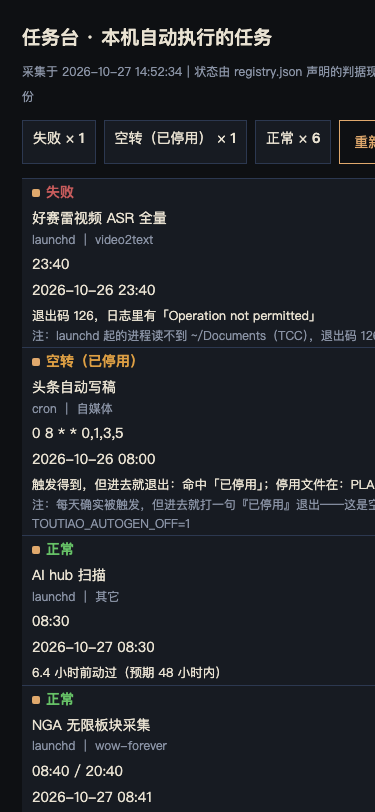
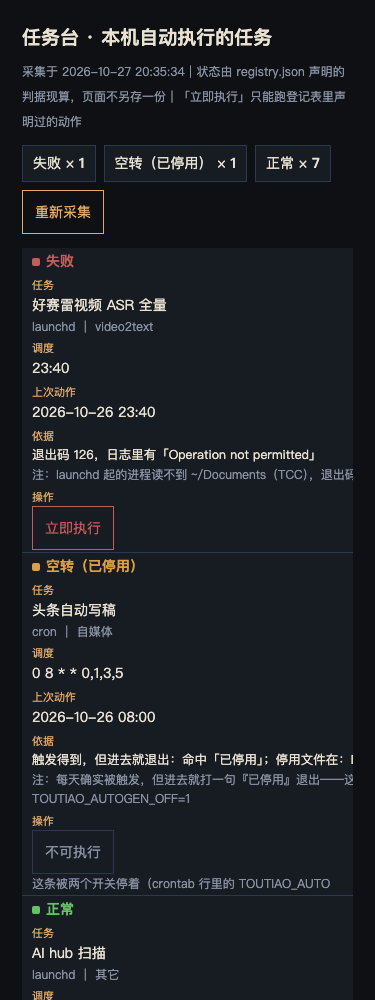
feat(tools): 任务台 P1——立即执行，白名单＋一次性令牌＋异步不阻塞
- 页面只能跑 registry.json 声明过的动作（kickstart 或写死 argv），
  不接受来自浏览器的命令文本；id 不在登记表里直接拒
- 9 条里 5 条给按钮、4 条置灰并写明理由：头条被两个开关停着，任务台不代跑停用的任务；
  video2text 两组触发口在工作台会话里且手动匹配会重写候选；Qoder 本地无接口
- 给按钮的 NGA 与 p2 标红字警告（拿号主 cookie 打板块 / 真发布数据），本轮没代跑这两条
- 修一处真溢出：操作列被挤出视口，改 table-layout:fixed＋colgroup＋overflow-wrap，
  用真浏览器量 1440/375 两档文档宽==视口宽
- 关掉上一轮两个自记缺口：订阅同步按组拆行（不再被取最新一条掩盖单组停摆）、
  任务台把自己也登记成一条任务（它挂了页面就停在最后一次采集）
- registry 的 note 里我用了半角引号（非法 JSON）已改；collect 分组段误用外层变量名 entry 已改回 e

diff --git a/wow-forever-web/tools/taskboard/server.py b/wow-forever-web/tools/taskboard/server.py
@@ -1,52 +1,69 @@
 #!/usr/bin/env python3
 # -*- coding: utf-8 -*-
-"""taskboard 页面：读 ~/.taskboard/status.json 把四家族自动任务摆一张表。
+"""taskboard 页面：读 ~/.taskboard/status.json 摆一张全机自动任务的健康表。
 
-第一期只读：只有「重新采集」这一个动作（它跑的是只读采集器，不碰任何任务）。
-改周期、启停、立即执行是后面几期的事，那时才需要 token 与两道确认（设计见
-wow-forever-web/docs/DEV-taskboard-2026-10-27.md 第六节）。
-
-只绑 127.0.0.1：这页迟早要拿到能改 crontab 的手，不能对局域网开放。
+P1 起多了「立即执行」。三条边界，都是刻意的：
+  · **只能执行 registry.json 里声明过的动作**（kickstart 或写死的 argv），
+    页面不接受任何来自浏览器的命令文本——能跑什么由仓库里那份登记表决定。
+  · 每次启动生成一次性 token，写进页面与请求；只接本机 Origin。
+    这页迟早要拿到改 crontab 的手，不能对局域网敞开。
+  · 改周期、启停、删任务（P2）没做。触发是异步的：kickstart 与长脚本都不阻塞页面，
+    结果写进 ~/.taskboard/audit.log，页面上给"已触发＋去哪看"。
 """
 import json
 import os
+import secrets
 import subprocess
 import sys
 import threading
+import time
+import urllib.parse
 from datetime import datetime
 from http.server import BaseHTTPRequestHandler, ThreadingHTTPServer
 
 HERE = os.path.dirname(os.path.abspath(__file__))
-STATUS = os.path.expanduser("~/.taskboard/status.json")
+HOME_DIR = os.path.expanduser("~/.taskboard")
+STATUS = os.path.join(HOME_DIR, "status.json")
+REGISTRY = os.path.join(HOME_DIR, "registry.json")
+AUDIT = os.path.join(HOME_DIR, "audit.log")
 COLLECT = os.path.join(HERE, "collect.py")
 HOST, PORT = "127.0.0.1", 15830
+TOKEN = secrets.token_urlsafe(9)
 
 CSS = """
 :root{--bg:#0e1013;--panel:#171b22;--line:#2c3850;--txt:#e9e2d2;--dim:#8a93a5;--gold:#e0a96d;
---ok:#67c267;--fail:#c75c5c;--idle:#dd9f44;--late:#dd9f44}
+--ok:#67c267;--fail:#c75c5c;--idle:#dd9f44}
 *{box-sizing:border-box}body{margin:0;padding:22px;background:var(--bg);color:var(--txt);
 font:14px/1.6 -apple-system,"PingFang SC",sans-serif}
 h1{font-size:19px;margin:0 0 4px}sub{color:var(--dim);font-size:12px}
-.chips{display:flex;flex-wrap:wrap;gap:8px;margin:14px 0}
+.chips{display:flex;flex-wrap:wrap;gap:8px;margin:14px 0;align-items:center}
 .chip{background:var(--panel);border:1px solid var(--line);padding:6px 10px;font-variant-numeric:tabular-nums}
-table{border-collapse:collapse;width:100%;background:var(--panel)}
+table{border-collapse:collapse;width:100%;background:var(--panel);table-layout:fixed}
+col.c-st{width:96px}col.c-op{width:112px}col.c-name{width:15%}col.c-sch{width:17%}col.c-last{width:12%}
+.wrap{overflow-x:auto}
 th,td{border-bottom:1px solid var(--line);padding:9px 10px;text-align:left;vertical-align:top}
+td,th{word-break:break-word;overflow-wrap:anywhere}
 th{color:var(--gold);font-weight:600;font-size:12px;letter-spacing:.04em}
 td.num{font-variant-numeric:tabular-nums;white-space:nowrap}
 .st{font-weight:600;white-space:nowrap}.st::before{content:"";display:inline-block;width:8px;height:8px;
 margin-right:6px;border-radius:2px;background:currentColor}
 .s-正常{color:var(--ok)}.s-失败{color:var(--fail)}.s-空转{color:var(--idle)}
-.s-超期{color:var(--late)}.s-应用没开{color:var(--dim)}.s-未知{color:var(--dim)}
+.s-超期{color:var(--idle)}.s-应用没开{color:var(--dim)}.s-未知{color:var(--dim)}
 .dim{color:var(--dim);font-size:12px}.why{font-size:12.5px}
+.grp{font-size:12px;color:var(--dim);font-variant-numeric:tabular-nums}
+.grp b{color:var(--txt);font-weight:600}
 button{background:transparent;border:1px solid var(--gold);color:var(--gold);
-padding:9px 14px;min-height:44px;cursor:pointer;font:inherit}
-button:hover{background:rgba(224,169,109,.12)}
+padding:9px 12px;min-height:44px;cursor:pointer;font:inherit;white-space:nowrap}
+button:hover:not(:disabled){background:rgba(224,169,109,.12)}
+button:disabled{border-color:var(--line);color:var(--dim);cursor:not-allowed}
+.note{margin:10px 0;padding:9px 12px;border-left:3px solid var(--gold);background:var(--panel);font-size:13px}
+.note.bad{border-left-color:var(--fail)}
 footer{margin-top:16px;color:var(--dim);font-size:12px}
-@media(max-width:760px){table,th,td{display:block;width:auto}tr{border-bottom:1px solid var(--line);padding:6px 0}
-th{display:none}td{border:0;padding:2px 10px}td::before{content:attr(data-l);color:var(--gold);
+@media(max-width:820px){table,th,td{display:block;width:auto}tr{border-bottom:1px solid var(--line);padding:6px 0}
+th{display:none}td{border:0;padding:2px 10px}td[data-l]::before{content:attr(data-l);color:var(--gold);
 font-size:11px;display:block}}
 """
-CLS = {"空转（已停用）": "空转", "应用没开": "应用没开"}
+CLS = {"空转（已停用）": "空转"}
 
 
 def load():
@@ -57,7 +74,52 @@ def load():
         return {"rows": [], "summary": {}, "error": "读不到 %s：%s" % (STATUS, e)}
 
 
-def render():
+def registry():
+    try:
+        with open(REGISTRY, encoding="utf-8") as f:
+            return {t["id"]: t for t in json.load(f).get("tasks", [])}
+    except Exception:
+        return {}
+
+
+def audit(rec):
+    rec["ts"] = datetime.now().strftime("%Y-%m-%d %H:%M:%S")
+    with open(AUDIT, "a", encoding="utf-8") as f:
+        f.write(json.dumps(rec, ensure_ascii=False) + "\n")
+    return rec
+
+
+def expand(a):
+    return os.path.expanduser(os.path.expandvars(a))
+
+
+def trigger(row):
+    """只执行登记表里声明过的动作。返回 (是否成功, 说明)。"""
+    reg = registry().get(row["id"])
+    if not reg:
+        return False, "登记表里没有这条 id，拒绝执行"
+    spec = reg.get("run") or {}
+    kind = spec.get("kind")
+    if kind == "none" or not kind:
+        return False, spec.get("why", "这条没声明可执行动作")
+    if kind == "kickstart":
+        label = reg.get("label")
+        r = subprocess.run(["launchctl", "kickstart", "-k", "gui/%d/%s" % (os.getuid(), label)],
+                           capture_output=True, text=True, timeout=30)
+        ok = r.returncode == 0
+        return ok, ("已 kickstart %s" % label if ok else "kickstart 失败：%s" % (r.stderr or r.stdout)[:160])
+    if kind == "cmd":
+        argv = [expand(a) for a in spec.get("argv", [])]
+        if not argv:
+            return False, "run.argv 是空的"
+        log = os.path.join(HOME_DIR, "run-%s-%s.log" % (row["id"], time.strftime("%Y%m%d-%H%M%S")))
+        h = open(log, "w")
+        p = subprocess.Popen(argv, stdout=h, stderr=subprocess.STDOUT, cwd=os.path.dirname(argv[0]))
+        return True, "已在后台起（PID %s），输出看 %s；跑完点「重新采集」看状态" % (p.pid, os.path.basename(log))
+    return False, "未知的 run.kind：%s" % kind
+
+
+def render(banner=None):
     d = load()
     rows = d.get("rows") or []
     chips = "".join('<span class="chip">%s × <b>%d</b></span>' % (k, v)
@@ -65,26 +127,44 @@ def render():
     tr = ""
     for r in rows:
         st = r["status"]
-        tr += ('<tr><td class="st s-%s"><span class="sr">%s</span></td>'
-               '<td>%s<div class="dim">%s ｜ %s</div></td>'
-               '<td class="num">%s</td><td class="num">%s</td>'
-               '<td class="why">%s%s</td></tr>\n') % (
+        run = r.get("run") or {"kind": "none"}
+        if run.get("kind") in (None, "none"):
+            act = '<button disabled title="%s">不可执行</button><div class="dim">%s</div>' % (
+                run.get("why", ""), (run.get("why", "") or "")[:34])
+        else:
+            warn = run.get("warn", "")
+            act = ('<form method=post action=/api/run onsubmit="return confirm(\'真的现在跑「%s」？\\n%s\')">'
+                   '<input type=hidden name=id value="%s"><input type=hidden name=t value="%s">'
+                   '<button%s>立即执行</button></form>') % (
+                r["name"].replace("'", ""), warn.replace("'", ""), r["id"], TOKEN,
+                ' style="border-color:var(--fail);color:var(--fail)"' if warn else "")
+        grp = "".join('<div class="grp">%s <b>%s</b> ｜ %s ｜ %s</div>' % (
+            g["name"], g["sched"], g["last"], g["status"]) for g in (r.get("groups") or []))
+        tr += ('<tr><td class="st s-%s">%s</td>'
+               '<td data-l="任务">%s<div class="dim">%s ｜ %s</div></td>'
+               '<td class="num" data-l="调度">%s</td>'
+               '<td class="num" data-l="上次动作">%s%s</td>'
+               '<td class="why" data-l="依据">%s%s</td><td data-l="操作">%s</td></tr>\n') % (
             CLS.get(st, st), st, r["name"], r["kind"], r.get("owner", ""),
-            r.get("schedule", "") or "—",
-            r.get("last_run", "") or "—",
+            r.get("schedule", "") or "—", r.get("last_run", "") or "—", grp,
             r.get("why", "") or "—",
-            ('<div class="dim">注：%s</div>' % r["note"]) if r.get("note") else "")
-    err = '<p class="s-失败">%s</p>' % d["error"] if d.get("error") else ""
-    return ("<!doctype html><meta charset=utf-8><title>任务台</title>"
-            "<style>%s</style><h1>任务台 · 本机自动执行的任务</h1>"
-            "<sub>采集于 %s｜状态由 registry.json 声明的判据现算，页面不另存一份</sub>%s"
+            ('<div class="dim">注：%s</div>' % r["note"]) if r.get("note") else "", act)
+    bn = ""
+    if banner:
+        bn = '<div class="note%s">%s</div>' % (" bad" if not banner[0] else "", banner[1])
+    err = '<div class="note bad">%s</div>' % d["error"] if d.get("error") else ""
+    return ("<!doctype html><meta charset=utf-8><title>任务台</title><style>%s</style>"
+            "<h1>任务台 · 本机自动执行的任务</h1>"
+            "<sub>采集于 %s｜状态由 registry.json 声明的判据现算，页面不另存一份｜"
+            "「立即执行」只能跑登记表里声明过的动作</sub>%s%s"
             '<div class="chips">%s<form method=post action=/refresh><button>重新采集</button></form></div>'
-            "<table><thead><tr><th>状态</th><th>任务</th><th>调度</th><th>上次动作</th><th>依据</th></tr></thead>"
-            "<tbody>%s</tbody></table>"
+            "<div class=wrap><table><colgroup><col class=c-st><col class=c-name><col class=c-sch><col class=c-last><col><col class=c-op></colgroup><thead><tr><th>状态</th><th>任务</th><th>调度</th><th>上次动作</th>"
+            "<th>依据</th><th>操作</th></tr></thead><tbody>%s</tbody></table></div>"
             "<footer>状态词分开用：<b>失败</b>＝跑过但非 0 退出；<b>空转</b>＝触发了但进去就退（配置里被停用）；"
-            "<b>应用没开</b>＝这类的定时器活在应用进程里，没开就不会跑；<b>超期未跑</b>＝距上次超过预期窗口；"
-            "<b>未知</b>＝没有可用证据。不靠颜色区分。</footer>") % (
-        CSS, d.get("generatedAt", "?"), err, chips or "", tr or "<tr><td colspan=5>没有行</td></tr>")
+            "<b>应用没开</b>＝这类定时器活在应用进程里，没开就不跑；<b>超期未跑</b>＝距上次超过预期窗口；"
+            "<b>未知</b>＝没有可用证据。除颜色外都带文字。执行记录在 <b>~/.taskboard/audit.log</b>。"
+            "改周期与启停（P2）没做。</footer>") % (
+        CSS, d.get("generatedAt", "?"), err, bn, chips or "", tr or "<tr><td colspan=6>没有行</td></tr>")
 
 
 class H(BaseHTTPRequestHandler):
@@ -97,6 +177,10 @@ class H(BaseHTTPRequestHandler):
         self.end_headers()
         self.wfile.write(data)
 
+    def _local(self):
+        org = self.headers.get("Origin") or self.headers.get("Referer") or ""
+        return (not org) or ("127.0.0.1:%d" % PORT in org) or ("localhost:%d" % PORT in org)
+
     def do_GET(self):
         if self.path.startswith("/api/status"):
             return self._send(200, json.dumps(load(), ensure_ascii=False, indent=1), "application/json; charset=utf-8")
@@ -104,31 +188,59 @@ class H(BaseHTTPRequestHandler):
             return self._send(200, render())
         return self._send(404, "404")
 
+    def _form(self):
+        n = int(self.headers.get("Content-Length") or 0)
+        raw = self.rfile.read(n).decode("utf-8") if n else ""
+        return {k: v[0] for k, v in urllib.parse.parse_qs(raw).items()}
+
     def do_POST(self):
-        if self.path != "/refresh":
-            return self._send(404, "404")
-        org = self.headers.get("Origin") or self.headers.get("Referer") or ""
-        if org and ("127.0.0.1:%d" % PORT) not in org and ("localhost:%d" % PORT) not in org:
+        if not self._local():
             return self._send(403, "只接受本机页面")
-        try:
-            r = subprocess.run([sys.executable, COLLECT], capture_output=True, text=True, timeout=120)
-            note = "采集完成" if r.returncode == 0 else "采集失败：%s" % (r.stderr or "")[:200]
-        except Exception as e:
-            note = "采集器没跑起来：%s" % str(e)[:160]
-        body = render().replace("<h1>", '<p class="dim">%s</p><h1>' % note, 1)
-        return self._send(200, body)
+        if self.path == "/refresh":
+            try:
+                r = subprocess.run([sys.executable, COLLECT], capture_output=True, text=True, timeout=120)
+                bn = (True, "采集完成") if r.returncode == 0 else (False, "采集失败：%s" % (r.stderr or "")[:200])
+            except Exception as e:
+                bn = (False, "采集器没跑起来：%s" % str(e)[:160])
+            return self._send(200, render(bn))
+        if self.path == "/api/run":
+            f = self._form()
+            if f.get("t") != TOKEN:
+                return self._send(403, render((False, "令牌不对或页面是旧的（服务重启过就刷新一次），没执行任何东西")))
+            rows = {r["id"]: r for r in load().get("rows", [])}
+            row = rows.get(f.get("id"))
+            if not row:
+                return self._send(400, render((False, "登记表里没有这个 id，没执行")))
+            ok, msg = trigger(row)
+            audit({"action": "run", "id": row["id"], "name": row["name"], "ok": ok, "detail": msg})
+            try:
+                subprocess.run([sys.executable, COLLECT], capture_output=True, timeout=120)
+            except Exception:
+                pass
+            return self._send(200, render((ok, ("已执行：%s ｜ %s" % (row["name"], msg)) if ok else ("没执行：%s ｜ %s" % (row["name"], msg)))))
+        return self._send(404, "404")
 
     def log_message(self, fmt, *a):
         sys.stderr.write("%s %s\n" % (datetime.now().strftime("%H:%M:%S"), fmt % a))
 
 
+def refresh_loop():
+    while True:
+        time.sleep(600)
+        try:
+            subprocess.run([sys.executable, COLLECT], capture_output=True, timeout=120)
+        except Exception:
+            pass
+
+
 def main():
     if not os.path.exists(STATUS):
         subprocess.run([sys.executable, COLLECT], capture_output=True)
-    srv = ThreadingHTTPServer((HOST, PORT), H)
-    print("任务台 http://%s:%d  状态文件 %s" % (HOST, PORT, STATUS), flush=True)
-    threading.Timer(600, lambda: subprocess.run([sys.executable, COLLECT], capture_output=True)).start()
-    srv.serve_forever()
+    threading.Thread(target=refresh_loop, daemon=True).start()
+    print("任务台 http://%s:%d" % (HOST, PORT), flush=True)
+    print("一次性令牌（本次启动有效，写进页面）：%s" % TOKEN, flush=True)
+    print("执行记录：%s" % AUDIT, flush=True)
+    ThreadingHTTPServer((HOST, PORT), H).serve_forever()
 
 
 if __name__ == "__main__":

diff --git a/wow-forever-web/tools/taskboard/collect.py b/wow-forever-web/tools/taskboard/collect.py
@@ -153,7 +153,9 @@ def evidence_row(entry, rows):
     """按声明收证据：上次活动时间、来源、退出码、日志里的关键词命中。"""
     row = {"id": entry["id"], "name": entry["name"], "kind": entry["kind"],
            "owner": entry.get("owner", ""), "status": UNKNOWN, "why": "",
-           "last_run": "", "last_src": "", "exit": "", "note": entry.get("hint", "")}
+           "last_run": "", "last_src": "", "exit": "", "note": entry.get("hint", ""),
+           "run": entry.get("run") or {"kind": "none", "why": "登记表里没声明可执行动作，页面不给按钮"},
+           "groups": []}
     ev = entry.get("evidence") or {}
     txt, mtime = tail_text(ev.get("log", ""))
     if mtime:
@@ -260,6 +262,11 @@ def collect():
                 src = os.path.basename(p(e["state"])) + "（每组的上次执行）"
                 row["exit"] = ",".join(sorted({str(t.get("last_status")) for t in st["tasks"]}))
                 row["schedule"] = "；".join(lst)
+                if e.get("groups"):
+                    for t in st["tasks"]:
+                        row["groups"].append({"name": t.get("name"), "sched": "每%s天@%s" % (
+                            t.get("interval_days"), t.get("run_at")), "last": (t.get("last_run") or "—")[:16],
+                            "status": t.get("last_status") or "?"})
             elif isinstance(st, dict):
                 row["schedule"] = "%s（开关 %s）" % (st.get("run_at", "?"), "开" if st.get("enabled") else "关")
                 src = os.path.basename(p(e["state"]))
@@ -295,7 +302,8 @@ def collect():
                         names.append("%s｜%s｜上次 %s｜%s" % (
                             t.get("name"), sc.get("expression") or sc.get("kind"),
                             dt.strftime("%m-%d %H:%M") if dt else "?", t.get("lastRunStatus") or "?"))
-                    row["schedule"] = "；".join(names) or "快照里没有任务"
+                    joined = "；".join(names)
+                    row["schedule"] = (joined[:110] + "…（共 %d 条）" % len(ts)) if len(joined) > 120 else (joined or "快照里没有任务")
                     row["last_src"] = "agent 同步于 " + str(d.get("syncedAt", "?"))
                     if stamps:
                         row["last_run"] = iso(max(stamps))

diff --git a/ROLES.md b/ROLES.md
@@ -214,3 +214,4 @@
 | 2026-10-27 | wow-dev | **站主选了 A（抓完就导），我实测之后把 A 撤回，并定下它该挂哪儿**（本轮零页面改动，不跑界面门禁）。① **撤回理由是量出来的不是推测**：launchd 起的进程读不到 `~/Documents`——同机现成的第二条证据是 `com.zhangyajun.haosailei.asr` 每晚 23:40 退出码 **126**、err 日志整页 `Operation not permitted`；而导入器与它要写的库都在 `Documents/project/video2text/`，从采集侧调它只会多一条每晚静默失败的任务。② 顺手拆掉一个会把采集搞挂的旧口径：`~/.nga` 运行副本与仓库那份已漂移（副本注释还写 `src/data`，仓库 10-24 后是 `app/data`；脚本差 110 行），**照文档那句「改了重新 cp」覆盖会把带 `cd $REPO` 的那份装进 launchd**，明天 08:40 就是 ASR 那个下场。改成 `--sync`（装副本前自动备份 `*.bak-时间戳`、把副本里的 `REPO` 改指 `~/.nga`）/ `--check`（漂移行数＋launchd 退出码＋最新快照）/ `--only-import`（零网络验接线）。实测：重装后 `一致／一致／rc=0`；`NGA_IMPORT=1 --only-import` 返回 `new:0`（幂等）；副本自己会拒绝 `--sync/--check`（它没有 Documents 权限，不拒绝就会拿不存在的目录报一堆 grep 错——这个我第一版就踩了，第二版补上）。`NGA_IMPORT` 默认 0，原因写在文件头，**不是没想到，是量过之后确认做不到**。③ 站主新需求「每天自动执行的任务要有网页管，而且不止这个项目有」→ 先盘全机器再谈建，四家族共 8 条（cron 2／launchd 3／应用进程内 2 组／Qoder 定时 1）。**盘出两个真故障**：ASR 每晚 126 之外，头条那条 cron 每天 08:00 确实在触发，但命令行带 `TOUTIAO_AUTOGEN_OFF=1`、目录里还有 `PLAN_AUTOGEN_DISABLED`，日志 10-23/25/26 全是「已停用」一句——**「在跑」其实是空转**，这种条目只按退出码显示会被当成健康。④ 规格里最关键的一条结构判断：**管理页不能寄生在被管的应用里**——第三家族「应用不开就不跑」，页面关着的整天正是它最该报警的时候，却看不见自己没跑。所以形状＝家目录 `~/.taskboard/collect.py`（launchd 每 30 分钟、只读、写 `status.json`）＋独立页面（127.0.0.1:15830）。判据不进代码，由 `registry.json` 声明，**「已停用／失败／应用没开／超过 N 小时没跑」四种分开写**，不许合并成「未执行」（站主 10-22 抓过状态说谎那次）。⑤ 写动作照本站 OSS 写闸的先例分级：token＋前端 confirm＋后端 `--yes` 双闸、改前原件进 `backup/`、**`crontab` 是整表覆盖所以写完必须回读校验、不一致就自动恢复备份**（不许「写了就当成功」）、删任务第一期不做。⑥ 一条硬边界要他点头：Qoder 定时任务本地没有稳定接口，第一版**只能显示不能改**。 | `wow-forever-web/tools/nga-daily.sh`、`wow-forever-web/docs/DATA-NGA-2026-10-18.md`（新增第二十三节）、`wow-forever-web/docs/DEV-taskboard-2026-10-27.md`（新）；`video2text/docs/NGA导入接进工作台-任务书-2026-10-27.md`（拍板段落）｜提交 `53586a13`、`3dd8ad71`、video2text `e6c16e2` | **已定**（导入通道＝工作台 `sync_tasks` 加一类导入任务，周期排在 08:40 采集之后、滞后必须在界面上显示成「工作台没开今天没导」而不许写「数据已是最新」；采集脚本已能装能核对）／**待用户确认（三件）**：① 任务台独立起服务、不塞进 15801；② 接受 Qoder 那格第一版只读；③ P2 改周期是否与 P0 同轮（我建议不同轮：判据没验准前给改 crontab 的按钮等于把误判变事故）／**没做的**：任务台一行代码没写；没动 `web/app.py` 与 `index.html`（另一会话在写，`DB_ONLY_SHEETS` 正在他那 75 处里）；没跑采集实网络验证（要用号主 cookie 打板块，属花他账号信用的动作）／**别线两笔账**：ASR 那条要修（执行体放家目录或给那二进制授 FDA）、头条 cron 那两个重复停用开关会让下一个会话误判恢复方式 | 站主点头三件事 → 下一轮 wow-dev 做 P0＋P1（`~/.taskboard/collect.py` 与只读页），P2 单独一轮 |
 | 2026-10-27 | wow-dev | **任务台 P0 建完并在跑（站主拍板：独立起服务）**。① 形状按规格落地：仓库是源、launchd 跑家目录副本（`tools/taskboard/{collect.py,server.py,registry.json,install.sh}` → `~/.taskboard/`），照 `~/.nga` 那套 `--sync/--check` 做法，理由同一条——launchd 起的进程读不到 `~/Documents`。② **判据不进代码**：每条任务的成功/失败/停用关键词、日志路径、预期窗口全在 `registry.json`，代码只按声明探；时间列也不写死，`plan_match_runs` 那种表按语义现挑（第一版把 `run_key` 当时间列用了，报出 `night:2026-10-26` 这种值，已改成优先 `finished/last/started_*_at` 并排除 `*key*`）。③ **六档状态分开**：`失败／空转（已停用）／应用没开／超期未跑／未知／正常`，除颜色外都带文字。头条那条就是这条设计的理由：它每天 08:00 真被触发，但命中「已停用」＋`PLAN_AUTOGEN_DISABLED` 存在，**判成"空转"才对**——只看退出码它会一直报健康。④ 实测一轮 8 条：失败×1（ASR 126＋TCC）、空转×1、正常×6；Qoder 那格本地确实没有稳定存储（`qoder-data.v1.json` 里 automation 字段 0 命中），只能由 agent 写 `~/.taskboard/qoder_cron.json` 快照，页面注明"agent 同步于 …"，**不伪装成实时**。⑤ 页面 127.0.0.1:15830 只读＋一个「重新采集」按钮（只跑采集器，不碰任何任务），POST 只接本机 Origin；定时采集 launchd `com.zhangyajun.taskboard-collect` 每 30 分钟，撤销一条 `--unagent`。⑥ 渲染证据两档截图（1440／375）。⑦ **P1 立即执行与 P2 改周期启停都没做**，按规格要先有 token＋两道确认＋备份回滚；且"应用没开/超期未跑"这两档本轮没被真实触发过，判据未经实战。⑧ **没量过就不登记**：5177 那条产线的状态文件与判据我还没查，所以它不在表里，不给假绿灯。⑨ 一处已知不精确：video2text 订阅同步的"上次动作"取四组里最新的一条，**单组停摆会被别的组掩盖**，要按组分行留给 P1。 | `wow-forever-web/tools/taskboard/{collect.py,server.py,registry.json,install.sh}`（新）、`wow-forever-web/docs/DEV-taskboard-2026-10-27.md`（第八节改成落地结论＋已知缺口）、`wow-forever-web/docs/screenshots/taskboard-2026-10-27/{desktop-1440,mobile-375}.png`；运行态在 `~/.taskboard/`（不入库） | **已定**（P0 可用、判据外置、状态分档）／**待用户看**：页面观感与措辞（我读的是压缩截图）／**待用户定**：P1 立即执行、P2 改周期/启停要不要开、订阅同步要不要按组分行／**没验到的**：`应用没开` 与 `超期未跑` 两档没有真实样本（要把 15801 关掉跑一轮才算验过）、launchd 定时采集要等 30 分钟后看 `collect.out.log` 才知成不成／**机器状态改动（可撤）**：新装 launchd `com.zhangyajun.taskboard-collect`、起了 15830 进程、写了 `~/.taskboard/` 五个文件 | 站主看完 P0 → 若要 P1/P2 按第六节分级做（token＋两道确认＋改前备份＋crontab 写完回读校验）；ASR 那条与头条双开关属别线，已记在规格第九节 |
 | 2026-10-27 | wow-data | 站主报「插件更新了，看有没有我们需要的数据；新加的 openmap 能不能完善地图」。只读挂载 105 那台逐文件核：GI 0.5.1→**0.5.6**（0.5.4 那格是天赋/专业/营地/成就**数据重做**，四块要返工；新增 `PetData` 40 家族/11 新增、自报客户端 70532）、XR 65→**87**、DF 1.8.20→**1.9.10**、**OpenMap 0.7.5-CN 是新源**（代码与数据表 MIT，图是暴雪裁剪件不受 MIT、画师自绘那两目录授权只给它 → 只取文件号清单不取图）。它的 `DungeonMaps.lua` 给 25 座本/63 层官方副本图共 **756 个文件号，逐号回读 listfile 756/756 且 verified**——补的正是 10-22 我们判死的那格（无限服没有 MapArea/MapDiff/TextureData，它取自正式服 5.5.4.70268 UiMap）。顺手量出我们自己的毛病：`bossPos` 带层号、DF 渲染按层过滤（`MapUI.lua:574`），我们却把跨层点画到 XR 那张 512² 等轴合成图上，参照物不是同一个坐标系。区域那 8 张缺口**判先不用**（我们的 37 张带中文地名，它那张大概率是英文地名，本机无 BLP 解码器打不开验不了） | `wow-forever-web/docs/DATA-插件盘点-2026-10-27.md`（新增）、`wow-forever-web/docs/wow-infinite-sources.md` §二十三（四个版本号 + OpenMap 登记） | 待用户确认（三件：① 要不要让 Windows 按 756 个文件号导逐层官方副本图；② GI 0.5.4 那四块要不要返工 + 猎人宠物开不开页；③ 地名已涂掉的干净总览图用不用） | wow-dev（首领点位参照物那一格要修）、wow-pm（宠物页范围）、wow-ops（GI 自己已有小程序/网站在做 BiS 与天赋，我们小程序差异化要重看） |
+| 2026-10-27 | wow-dev | **先 push，再做 P1（任务台「立即执行」）**。① 推送：wow-forever 走 SSH 只快进 `d0aff014..dd727663`（6 个提交，含别的会话两条），video2text `f423bdf..e6c16e2`（2 条都是我的）；推前 `ls-remote` 实测通道活的（6.8 秒），tracking ref 手动对齐。② P1 三条边界按规格实现，不是"能点就行"：**白名单执行**（页面只能跑 `registry.json` 声明过的 `kickstart`/写死 `argv`，不接受任何来自浏览器的命令文本，id 不在表里直接拒）、**一次性 token＋本机 Origin＋前端 confirm**（token 启动时打印在终端并注入页面）、**异步不阻塞**（kickstart 与长脚本不等结果，输出重定向 `run-<id>-<时间>.log`，记录进 `audit.log` JSON 一行一条，随后立刻重跑只读采集）。③ **置灰比给按钮更重要**：9 条里 5 条给按钮、4 条不给并写明为什么——头条那条被 `TOUTIAO_AUTOGEN_OFF=1` 与 `PLAN_AUTOGEN_DISABLED` 两个开关停着，**任务台不代跑停用的任务，要恢复得自己删开关，不能从这儿绕过去**；video2text 两组触发口在工作台会话里且手动匹配会重写候选表（改数据）；Qoder 那格本地没接口。给按钮的 5 条里 NGA 与 p2 标红字警告（前者拿号主 cookie 打板块一次、后者真发布数据），**我没有代跑这两条**。④ 实测：真令牌 kickstart 只读的「任务台自采」→ `audit.log` 落 `ok:true`、`status.json` 的 `generatedAt` 同步刷新；假令牌 → HTTP 403 且无执行记录。⑤ 版式修了一处真问题：第一版**操作列被挤出视口**（表格没固定列宽），改 `table-layout:fixed`＋colgroup＋`overflow-wrap`，并用真浏览器量 **1440／375 两档文档宽==视口宽、不横溢**（不靠肉眼看图判溢出）；Qoder 那格调度串加 120 字截断。⑥ 顺手把上一轮自己记的缺口关掉两个：订阅同步**按组拆行显示**（四组各自上次执行与结果，不再被"取最新一条"掩盖单组停摆）、**任务台把自己也登记成一条任务**（`taskboard-collect`，每 30 分钟、预期 1 小时——它挂了页面就停在最后一次采集，这条必须自己上表）。⑦ 中途两次工具性错误都当场改回：registry.json 的 note 里我用了半角引号（非法 JSON，改成无引号表述）；collect.py 分组那段我按外层变量名 `entry` 写、循环内实际是 `e`（NameError，改回并跑通）；另一次补丁锚点对不上导致 assert 提前退出，先核文件实际内容再打。 | `wow-forever-web/tools/taskboard/{server.py,collect.py,registry.json}`、`wow-forever-web/docs/DEV-taskboard-2026-10-27.md`（第八节改成 P1 完成态＋新缺口）、`wow-forever-web/docs/screenshots/taskboard-2026-10-27/{desktop-1440,mobile-375}.png`；运行态 `~/.taskboard/`（不入库） | **已定**（P1 可用、白名单＋token＋异步三条边界成立、按钮分布 5/4 有据）／**待用户看**：页面观感与四条置灰理由的措辞（我读的是压缩截图，量的是溢出与按钮可达性）／**待用户定**：要不要开 P2（改周期／启停，需回读校验＋自动恢复）；NGA 与 p2 那两条要不要我实跑一次验证按钮真能触发（会花号主 cookie 信用／会真发布数据，我没擅自跑）／**没验到的**：`应用没开` 与 `超期未跑` 两档**仍无真实样本**——本轮 9 条全落在失败／空转／正常，没被真实触发过的判据不算验过；令牌重启后会变，旧页面点会被拒 | 站主看完 P1 → 若要 P2 按第六节做（改前备份、crontab 写完回读校验、不一致自动恢复）；ASR 与头条双开关那两笔仍挂在本文件第九节（别线） |

diff --git a/wow-forever-web/docs/DEV-taskboard-2026-10-27.md b/wow-forever-web/docs/DEV-taskboard-2026-10-27.md
@@ -119,15 +119,44 @@ Qoder 那一格先只读、P2 不与本轮同做。
 截图证据：`docs/screenshots/taskboard-2026-10-27/desktop-1440.png`、`mobile-375.png`。
 状态除颜色外**都带文字**（`失败/空转（已停用）/正常`），符合本站"不靠颜色承载信息"那条。
 
+### P1 已做完（2026-10-27 20:35）：立即执行
+
+三条边界都按规格实现，不是"能点就行"：
+
+1. **白名单执行**：页面只能跑 `registry.json` 里声明过的动作（`kickstart` 或写死的 `argv`），
+   不接受任何来自浏览器的命令文本；id 不在登记表里直接拒。
+2. **一次性令牌＋本机 Origin＋前端 confirm**：服务启动时生成 token 打在终端并注入页面，
+   对不上就 403 且**不执行任何东西**（实测：假令牌被拒，`audit.log` 里没有那条）。
+3. **异步不阻塞**：`kickstart` 与长脚本都不等结果，输出重定向到 `~/.taskboard/run-<id>-<时间>.log`，
+   页面回"已触发＋去哪看"，并立刻重跑一次只读采集。执行记录进 `~/.taskboard/audit.log`（JSON 一行一条）。
+
+按钮分布（9 条）：**5 条给「立即执行」，4 条置灰并写明为什么不给**。
+置灰是刻意的，四条理由各不同：头条那条被两个开关停着（**任务台不代跑停用的任务，
+要恢复请你自己删开关，别从这儿绕过去**）；video2text 两组的触发口在工作台自己的会话里，
+且手动匹配会重写候选表（属改数据）；Qoder 那格本地没有接口。
+给按钮的 5 条里，NGA 与 p2 两条**标了红字警告**：前者会拿号主 cookie 打板块一次，后者会真发布数据。
+
+实测（20:33）：真令牌 kickstart 只读的「任务台自采」→ `audit.log` 落一条 `ok:true`、
+`status.json` 的 `generatedAt` 同步刷新；假令牌 → HTTP 403 且无执行记录。
+版式修了一处：第一版操作列被挤出视口（表格没固定列宽），改成 `table-layout:fixed`＋colgroup＋
+长文本 `overflow-wrap`，并用真浏览器量过 **1440 与 375 两档文档宽 == 视口宽，不横溢**；
+Qoder 那格的调度串加 120 字截断（多条任务时不再撑表）。两档截图已更新。
+`video2text 订阅同步` 也按组拆开了显示（四组各自的上次执行与结果），
+**不再被"取四组里最新的一条"掩盖单组停摆**。
+任务台把自己也登记成一条任务（`taskboard-collect`，每 30 分钟、预期窗口 1 小时）——
+它挂了页面就会停在最后一次采集，这条必须自己上表。
+
 ### 已知缺口（下一轮再谈，不假装做完）
 
-1. **P1 立即执行、P2 改周期/启停都没做**——按第六节的分级，那需要 token＋两道确认＋备份回滚，
-   且要先看 P0 的判准不准（本轮 8 条判对了 8 条，但"应用没开""超期未跑"两档还没被真实触发过）。
-2. Qoder 那一格靠 `~/.taskboard/qoder_cron.json` 快照，**快照不会自己更新**，要 agent 跑一次
-   `qoder_cron list` 重写。页面上写明"agent 同步于 …"，不伪装成实时。
-3. `video2text 订阅同步` 的"上次动作"取的是四组里最新的那条，**某单独一组停摆时会被别的组掩盖**——
-   要精确到组，得让页面把四组分行列出来（P1 顺手做）。
-4. 5177 那条产线没进登记表（它的状态文件与判据我还没量过，**没量过就不登记**，免得给个假绿灯）。
+1. **P2 改周期／启停／删任务没做**——要改 plist 与 crontab（整表覆盖，写完必须回读校验、
+   不一致自动恢复），建议攒够 P1 使用记录再放开。
+2. **`应用没开` 与 `超期未跑` 两档还没有真实样本**：本轮 9 条全落在 失败／空转／正常 三档。
+   要验这两档得真把 15801 关掉跑一轮采集，或等 NGA 超过 13 小时窗口。
+   **没被真实触发过的判据，不能算验过。**
+3. Qoder 那一格靠 `~/.taskboard/qoder_cron.json` 快照，**快照不会自己更新**，要 agent 跑一次
+   `qoder_cron list` 重写；页面写明"agent 同步于 …"，不伪装成实时。
+4. 5177 那条产线没进登记表（状态文件与判据我还没量过，**没量过就不登记**，免得给假绿灯）。
+5. 令牌在服务重启后会变：旧页面点执行会被拒（行为正确，但要刷新页面才能继续用）。
 
 ## 九、顺带记两笔本次盘点捞到的账（不属本线，但要有人知道）
 
